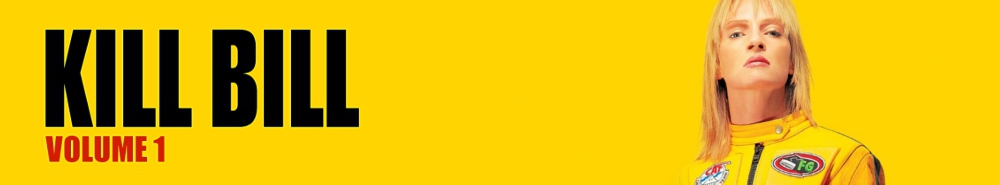
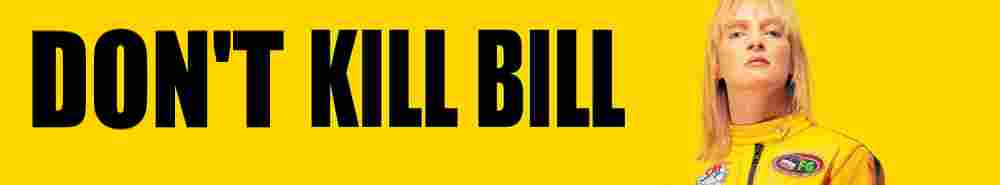
img

diff --git a/README.md b/README.md
@@ -1,4 +1,7 @@
-# Don't Kill Bill
+
+![Don't Kill Bill](img/KillBill_banner.jpg "Don't Kill Bill")
+
+
 ## Datapac and YOU @ Night of Chances
 
 # Vzorova databaza
@@ -64,7 +67,4 @@ with randowvalues
     OPTION(MAXRECURSION 0)
 GO
 ```
-
-
-![Don't Kill Bill](img/KillBill_banner.jpg "Don't Kill Bill")
 
